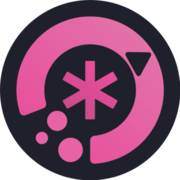
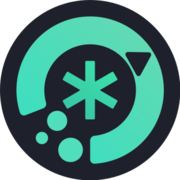
Volta o Illogical Windows para o verde

diff --git a/apps/illogicalwindows/rich/showcase.css b/apps/illogicalwindows/rich/showcase.css
@@ -1,30 +1,30 @@
 /* Vitrine por cenas. Todo movimento usa transform e opacity. */
 
 .visually-hidden { position: absolute; width: 1px; height: 1px; overflow: hidden; clip-path: inset(50%); white-space: nowrap; }
-.rich { --show-pink: #ef68aa; --show-white: #f6f1f5; }
+.rich { --show-accent: #68efc7; --show-white: #f1f6f4; }
 .rich body { background: #08080b; }
 .rich .nav a[href="#learn"], .rich .nav a[href="#source"] { display: none; }
 .rich .site-header { background: #08080b; border-bottom-color: #ffffff12; }
-.rich .hero { scroll-margin-top: 56px; overflow: clip; padding: 62px 0 64px; background: radial-gradient(ellipse at 50% 55%, #4e123736, transparent 62%); }
+.rich .hero { scroll-margin-top: 56px; overflow: clip; padding: 62px 0 64px; background: radial-gradient(ellipse at 50% 55%, #124e3c36, transparent 62%); }
 .rich .hero > .wrap:first-child { max-width: 1320px; }
 .rich .hero-icon, .rich .codename { display: none; }
-.rich .hero .eyebrow { background: transparent; border: 0; color: var(--show-pink); margin: 0 0 14px; padding: 0; font-size: .72rem; letter-spacing: .18em; text-transform: uppercase; }
+.rich .hero .eyebrow { background: transparent; border: 0; color: var(--show-accent); margin: 0 0 14px; padding: 0; font-size: .72rem; letter-spacing: .18em; text-transform: uppercase; }
 .rich .hero h1 { font-size: 1.05rem; font-weight: 600; letter-spacing: -.02em; color: #c0b8c3; margin: 0 0 24px; }
 .rich .launch-title { font-size: clamp(3.8rem, 8.7vw, 8rem); font-weight: 650; line-height: .99; letter-spacing: -.065em; margin: 0; color: var(--show-white); }
 .launch-title span { display: block; }
-.launch-title span:last-child { color: var(--show-pink); }
+.launch-title span:last-child { color: var(--show-accent); }
 .rich .hero .pitch { font-family: var(--font); font-size: 1rem; font-weight: 400; color: #afa8b3; max-width: 54ch; margin-top: 26px; line-height: 1.55; }
 .rich .hero .cta { margin-top: 24px; }
 .rich .hero .btn { font-size: .9rem; min-height: 44px; padding: 10px 22px; }
 .launch-stage { position: relative; aspect-ratio: 16 / 9; width: min(1120px, 90%); margin: 80px auto 58px; perspective: 1800px; }
-.launch-orbit { position: absolute; inset: -12% -8%; border: 1px solid #d15c9824; border-radius: 50%; transform: rotate(-14deg); pointer-events: none; }
-.launch-desktop { position: absolute; inset: 0; border: 1px solid #ffb3d34d; border-radius: 18px; overflow: hidden; box-shadow: 0 36px 90px #0009; transform: rotateX(var(--launch-tilt, 9deg)) rotateY(var(--launch-turn, -3deg)) scale(var(--launch-scale, .94)); transform-origin: center; }
+.launch-orbit { position: absolute; inset: -12% -8%; border: 1px solid #5cd1ae24; border-radius: 50%; transform: rotate(-14deg); pointer-events: none; }
+.launch-desktop { position: absolute; inset: 0; border: 1px solid #b3ffe84d; border-radius: 18px; overflow: hidden; box-shadow: 0 36px 90px #0009; transform: rotateX(var(--launch-tilt, 9deg)) rotateY(var(--launch-turn, -3deg)) scale(var(--launch-scale, .94)); transform-origin: center; }
 .launch-desktop img { width: 100%; height: 100%; display: block; object-fit: cover; }
 .launch-panel { position: absolute; height: auto; border-radius: 14px; box-shadow: 0 24px 60px #000a; pointer-events: none; }
 .launch-search { width: 37%; left: -6%; bottom: 6%; transform: translateY(var(--search-y, 28px)) rotate(-5deg); }
 .launch-side { width: 20%; right: -4%; top: -7%; transform: translateY(var(--side-y, -18px)) rotate(4deg); }
 .launch-tour { position: absolute; bottom: -64px; left: 50%; transform: translateX(-50%); display: flex; align-items: center; gap: 16px; color: #aaa1b0; font-size: .72rem; letter-spacing: .14em; text-transform: uppercase; text-decoration: none; white-space: nowrap; }
-.launch-tour span:last-child { font-size: 1.2rem; color: var(--show-pink); }
+.launch-tour span:last-child { font-size: 1.2rem; color: var(--show-accent); }
 .rich .hero .facts { margin-top: 100px; font-size: .75rem; color: #aaa1b0; }
 .rich .hero .hero-note { font-size: .74rem; max-width: 74ch; }
 .rich .notice-band { background: #0d0c10; border-block: 1px solid #ffffff0c; }
@@ -33,28 +33,28 @@
 .journey { scroll-margin-top: 56px; background: #08080b; position: relative; overflow: clip; }
 .journey-pin { max-width: 1440px; margin: auto; padding: 36px 6vw; }
 .journey-topline { display: flex; justify-content: space-between; color: #a79baa; font-size: .7rem; text-transform: uppercase; letter-spacing: .18em; }
-.journey-counter { color: var(--show-pink); font-variant-numeric: tabular-nums; }
+.journey-counter { color: var(--show-accent); font-variant-numeric: tabular-nums; }
 .journey-scenes { position: relative; }
 .journey-scene { display: grid; grid-template-columns: .9fr 1.1fr; align-items: center; gap: 5%; min-height: 680px; }
-.chapter-number { display: block; color: var(--show-pink); font: .75rem var(--font-mono); margin-bottom: 24px; }
+.chapter-number { display: block; color: var(--show-accent); font: .75rem var(--font-mono); margin-bottom: 24px; }
 .journey-copy h3 { font-size: clamp(2.7rem, 5.4vw, 5.2rem); line-height: 1.02; letter-spacing: -.055em; font-weight: 650; margin: 0; }
 .journey-copy h3 span { display: block; }
 .journey-copy h3 span:last-child { color: #a593a7; }
 .journey-copy p { font-size: 1.05rem; line-height: 1.65; color: #aca2b3; max-width: 35ch; margin: 28px 0 20px; }
-.scene-try { color: var(--show-pink); text-underline-offset: 6px; font-size: .9rem; }
+.scene-try { color: var(--show-accent); text-underline-offset: 6px; font-size: .9rem; }
 .scene-key { display: flex; align-items: center; gap: 12px; color: #817686; font-size: .75rem; margin-top: 34px; }
-.scene-key kbd { border: 1px solid #ffffff26; border-radius: 7px; padding: 8px 14px; color: #e8dcea; font: .8rem var(--font); }
+.scene-key kbd { border: 1px solid #ffffff26; border-radius: 7px; padding: 8px 14px; color: #dceae6; font: .8rem var(--font); }
 .journey-visual { position: relative; min-width: 0; display: grid; place-items: center; perspective: 1200px; }
-.scene-halo { position: absolute; width: 110%; aspect-ratio: 1; background: radial-gradient(ellipse, #9d236245, transparent 66%); pointer-events: none; }
+.scene-halo { position: absolute; width: 110%; aspect-ratio: 1; background: radial-gradient(ellipse, #239d7845, transparent 66%); pointer-events: none; }
 .journey-visual img { position: relative; width: 100%; height: auto; border-radius: 18px; box-shadow: 0 28px 80px #000a; transform: translateY(var(--scene-y, 0px)) rotateY(var(--scene-turn, -6deg)); }
 .scene-search img { width: 112%; max-width: none; }
-.scene-label { position: absolute; bottom: -64px; color: #b99fb8; font-size: .8rem; letter-spacing: .08em; }
+.scene-label { position: absolute; bottom: -64px; color: #9fb9b1; font-size: .8rem; letter-spacing: .08em; }
 .scene-controls img { width: auto; max-height: 64svh; max-width: 80%; transform: translateY(var(--scene-y, 0px)) rotate(5deg); z-index: 1; }
-.control-word { position: absolute; right: -8%; color: #281323; font-size: 25vw; font-weight: 700; letter-spacing: -.09em; line-height: 1; }
+.control-word { position: absolute; right: -8%; color: #132822; font-size: 25vw; font-weight: 700; letter-spacing: -.09em; line-height: 1; }
 .scene-widgets img { width: 122%; max-width: none; transform: translateY(var(--scene-y, 0px)) rotateY(-8deg); }
 .journey-progress { display: none; gap: 8px; }
 .journey-progress i { flex: 1; height: 2px; background: #ffffff14; }
-.journey-progress i.is-on { background: var(--show-pink); }
+.journey-progress i.is-on { background: var(--show-accent); }
 .showcase-motion .journey { height: 350svh; }
 .showcase-motion .journey-pin { position: sticky; top: 56px; height: calc(100svh - 56px); display: grid; grid-template-rows: auto 1fr auto; padding-bottom: 32px; }
 .showcase-motion .journey-scenes { min-height: 0; }
@@ -62,12 +62,12 @@
 .showcase-motion .journey-scene.is-current { pointer-events: auto; }
 .showcase-motion .journey-scene:first-child { --scene-alpha: 1; }
 .showcase-motion .journey-progress { display: flex; }
-.rich .hands-on { padding: 100px 0 112px; background: radial-gradient(ellipse at 50% 48%, #40162b52, transparent 65%), #100c12; border-block: 1px solid #ffffff0b; }
-.show-kicker { color: var(--show-pink); text-transform: uppercase; letter-spacing: .18em; font-size: .72rem; margin-bottom: 24px; }
+.rich .hands-on { padding: 100px 0 112px; background: radial-gradient(ellipse at 50% 48%, #16403352, transparent 65%), #0c1210; border-block: 1px solid #ffffff0b; }
+.show-kicker { color: var(--show-accent); text-transform: uppercase; letter-spacing: .18em; font-size: .72rem; margin-bottom: 24px; }
 .hands-on-head { text-align: center; }
 .hands-on-head h2 { font-size: clamp(2.8rem, 6vw, 5.8rem); letter-spacing: -.055em; line-height: 1.04; margin: 0; }
 .hands-on-head h2 span { display: block; }
-.hands-on-head h2 span:last-child { color: var(--show-pink); }
+.hands-on-head h2 span:last-child { color: var(--show-accent); }
 .hands-on-head > p:last-child { max-width: 52ch; color: #aaa0af; margin: 28px auto 0; }
 .rich .hands-on .demo-area { max-width: 1200px; margin-top: 52px; }
 .rich .section { padding-block: 100px; }
@@ -77,8 +77,8 @@
 .rich .features h3 { font-size: 1.2rem; }
 .rich .features p { font-size: .9rem; line-height: 1.65; }
 .rich #features { background: #08080b; }
-.rich #learn { background: #100e13; }
-.rich #install { background: radial-gradient(ellipse at top, #8d205337, transparent 65%), #0e0a10; }
+.rich #learn { background: #0e1312; }
+.rich #install { background: radial-gradient(ellipse at top, #208d6c37, transparent 65%), #0a100e; }
 .rich #install .section-head h2 { font-size: clamp(2.8rem, 6vw, 5rem); }
 .rich .launch-title, .rich .launch-stage { animation: none; }
 .rich-ready .launch-title { animation: show-enter 900ms cubic-bezier(.2,.7,.2,1) both; }

diff --git a/apps/illogicalwindows/index.html b/apps/illogicalwindows/index.html
@@ -28,13 +28,13 @@
 		<meta name="twitter:description" content="end-4's illogical-impulse desktop, running natively on Windows 11 and Windows 10. Unofficial, free and open source." />
 		<meta name="twitter:image" content="https://daeese.me/filearchive/projects/ii-windows/banner.webp" />
 
-		<link rel="icon" type="image/png" sizes="32x32" href="assets/icon-32.png" />
-		<link rel="icon" type="image/png" sizes="180x180" href="assets/icon-180.png" />
-		<link rel="apple-touch-icon" href="assets/icon-180.png" />
+		<link rel="icon" type="image/png" sizes="32x32" href="assets/icon-32.png?v=20261031" />
+		<link rel="icon" type="image/png" sizes="180x180" href="assets/icon-180.png?v=20261031" />
+		<link rel="apple-touch-icon" href="assets/icon-180.png?v=20261031" />
 
 		<link rel="stylesheet" href="../../filearchive/i18n/i18n.css" />
-		<link rel="stylesheet" href="rich/rich.css?v=20261014-4" />
-        <link rel="stylesheet" href="rich/showcase.css?v=20261014-4" />
+		<link rel="stylesheet" href="rich/rich.css?v=20261031-1" />
+        <link rel="stylesheet" href="rich/showcase.css?v=20261031-1" />
 		<script src="../../filearchive/perf/lite.js"></script>
 
 		<script>
@@ -90,15 +90,15 @@
 				--bg: #0e1013;
 				--bg-alt: #13161a;
 				--surface: #171a1f;
-				--surface-tint: #25161e;
+				--surface-tint: #142420;
 				--line: rgba(255, 255, 255, 0.08);
 				--line-strong: rgba(255, 255, 255, 0.16);
 				--text: #eceff3;
 				--muted: #9ba4af;
-				--accent: #e160a1;
-				--accent-ink: #e970ad;
-				--accent-soft: rgba(225, 96, 161, 0.12);
-				--on-accent: #280818;
+				--accent: #4fd8b5;
+				--accent-ink: #5fe0bf;
+				--accent-soft: rgba(79, 216, 181, 0.12);
+				--on-accent: #04261d;
 				--header-bg: rgba(14, 16, 19, 0.94);
 				--shadow: 0 1px 2px rgba(0, 0, 0, 0.3), 0 10px 30px rgba(0, 0, 0, 0.3);
 				--shadow-lg: 0 2px 6px rgba(0, 0, 0, 0.35), 0 30px 70px rgba(0, 0, 0, 0.5);
@@ -1308,7 +1308,7 @@
 		<header class="site-header">
 			<div class="wrap header-inner">
 				<a class="brand" href="#top" aria-label="Illogical Windows" data-i18n-attr="aria-label:iw.brand">
-					<img src="assets/icon.webp" width="28" height="28" alt="" />
+					<img src="assets/icon.webp?v=20261031" width="28" height="28" alt="" />
 					<span data-i18n="iw.brand">Illogical Windows</span>
 				</a>
 				<nav class="nav" aria-label="Sections" data-i18n-attr="aria-label:iw.nav.label">
@@ -1331,7 +1331,7 @@
 			<!-- ================= Hero ================= -->
 			<section class="hero" id="top">
 				<div class="wrap">
-					<img class="hero-icon" src="assets/icon.webp" width="84" height="84" alt="" />
+					<img class="hero-icon" src="assets/icon.webp?v=20261031" width="84" height="84" alt="" />
 					<p class="eyebrow" data-i18n="iw.hero.eyebrow">Unofficial port · Unstable preview</p>
 					<h1 data-i18n="iw.hero.title">Illogical Windows</h1>
                     <h2 class="launch-title rich-only"><span data-i18n="iw.show.hero.a">Your desktop.</span><span data-i18n="iw.show.hero.b">Entirely your own.</span></h2>
@@ -1441,7 +1441,7 @@
 							<div class="demo-icons"><i></i><i></i><i></i></div>
 						</div>
 						<div class="demo-bar">
-							<button type="button" class="demo-bar-btn demo-bar-search" data-act="win" aria-label="Search" data-i18n-attr="aria-label:iw.demo.searchBtn"><img src="assets/icon.webp" width="16" height="16" alt="" /></button>
+							<button type="button" class="demo-bar-btn demo-bar-search" data-act="win" aria-label="Search" data-i18n-attr="aria-label:iw.demo.searchBtn"><img src="assets/icon.webp?v=20261031" width="16" height="16" alt="" /></button>
 							<div class="demo-ws" role="group" aria-label="Workspaces" data-i18n-attr="aria-label:iw.demo.wsLabel">
 								<button type="button" data-ws="0" class="on" aria-pressed="true">1</button><button type="button" data-ws="1" aria-pressed="false">2</button><button type="button" data-ws="2" aria-pressed="false">3</button>
 							</div>
@@ -1517,9 +1517,9 @@
 					<div class="demo-walls">
 						<span class="demo-walls-label" id="demo-walls-label" data-i18n="iw.demo.walls">Wallpaper</span>
 						<div class="demo-swatches" role="radiogroup" aria-labelledby="demo-walls-label">
-						<button type="button" role="radio" aria-checked="true" data-wall="rose" aria-label="Rose" data-i18n-attr="aria-label:iw.demo.wall.rose" title="Rose"><canvas aria-hidden="true"></canvas></button>
+						<button type="button" role="radio" aria-checked="false" data-wall="rose" aria-label="Rose" data-i18n-attr="aria-label:iw.demo.wall.rose" title="Rose"><canvas aria-hidden="true"></canvas></button>
 						<button type="button" role="radio" aria-checked="false" data-wall="lagoon" aria-label="Lagoon" data-i18n-attr="aria-label:iw.demo.wall.lagoon" title="Lagoon"><canvas aria-hidden="true"></canvas></button>
-						<button type="button" role="radio" aria-checked="false" data-wall="moss" aria-label="Moss" data-i18n-attr="aria-label:iw.demo.wall.moss" title="Moss"><canvas aria-hidden="true"></canvas></button>
+						<button type="button" role="radio" aria-checked="true" data-wall="moss" aria-label="Moss" data-i18n-attr="aria-label:iw.demo.wall.moss" title="Moss"><canvas aria-hidden="true"></canvas></button>
 						<button type="button" role="radio" aria-checked="false" data-wall="ember" aria-label="Ember" data-i18n-attr="aria-label:iw.demo.wall.ember" title="Ember"><canvas aria-hidden="true"></canvas></button>
 						<button type="button" role="radio" aria-checked="false" data-wall="dusk" aria-label="Dusk" data-i18n-attr="aria-label:iw.demo.wall.dusk" title="Dusk"><canvas aria-hidden="true"></canvas></button>
 						</div>
@@ -2913,7 +2913,7 @@
 				if (rich) {
 					root.classList.add("rich");
 					try {
-						mod = mod || (await import("./rich/rich.js?v=20261014-4"));
+						mod = mod || (await import("./rich/rich.js?v=20261031-1"));
                         if (current !== revision || (lite && lite.on)) return;
 						mod.start();
 						// Mede o fps com os efeitos rodando (lite.js, data-lite-watch).

diff --git a/apps/illogicalwindows/rich/rich.css b/apps/illogicalwindows/rich/rich.css
@@ -26,22 +26,22 @@
 @property --accent {
 	syntax: "<color>";
 	inherits: true;
-	initial-value: #e4509a;
+	initial-value: #3ddbb0;
 }
 @property --accent-ink {
 	syntax: "<color>";
 	inherits: true;
-	initial-value: #82174d;
+	initial-value: #0b7d64;
 }
 @property --accent-soft {
 	syntax: "<color>";
 	inherits: true;
-	initial-value: rgba(228, 80, 154, 0.14);
+	initial-value: rgba(61, 219, 176, 0.14);
 }
 @property --on-accent {
 	syntax: "<color>";
 	inherits: true;
-	initial-value: #2c0719;
+	initial-value: #032a20;
 }
 
 .rich-ready {
@@ -133,19 +133,19 @@
 }
 
 .demo {
-	--d-primary: #ffb0cf;
-	--d-on-primary: #63003b;
-	--d-primary-container: #8c0056;
-	--d-on-primary-container: #ffd9e5;
-	--d-secondary-container: #5a3f49;
-	--d-on-secondary-container: #fed9e5;
-	--d-surface: #171214;
+	--d-primary: #b0ffe7;
+	--d-on-primary: #006345;
+	--d-primary-container: #008c62;
+	--d-on-primary-container: #d9fff4;
+	--d-secondary-container: #3f5a52;
+	--d-on-secondary-container: #d9fef3;
+	--d-surface: #121716;
 	--d-surface-low: #201a1c;
 	--d-surface-mid: #241e20;
 	--d-surface-high: #2e282a;
 	--d-surface-top: #393335;
-	--d-on-surface: #ebe0e2;
-	--d-on-surface-variant: #d5c2c7;
+	--d-on-surface: #e0ebe8;
+	--d-on-surface-variant: #c2d5cf;
 	--d-outline: #9d8c91;
 	--d-outline-variant: #504348;
 	--bar-h: 2.3em;
@@ -155,7 +155,7 @@
 	overflow: hidden;
 	isolation: isolate;
 	border-radius: 18px;
-	background: #120d10;
+	background: #0d1210;
 	box-shadow: var(--shadow-lg);
 	color: var(--d-on-surface);
 	font-size: clamp(10px, 1.32cqi, 14.5px);
@@ -204,7 +204,7 @@
 	position: absolute;
 	inset: 0;
 	z-index: 0;
-	background: #1a0b14 center / cover no-repeat;
+	background: #0b1a16 center / cover no-repeat;
 	transition: opacity 0.5s ease;
 }
 

diff --git a/apps/illogicalwindows/rich/rich.js b/apps/illogicalwindows/rich/rich.js
@@ -24,7 +24,7 @@ import { PRESETS, wallpaperUrl, drawThumb, presetTones, demoScheme, pageScheme, 
 const html = document.documentElement;
 const reduce = matchMedia("(prefers-reduced-motion: reduce)");
 const darkQuery = matchMedia("(prefers-color-scheme: dark)");
-const WALL_KEY = "iw:wall";
+const WALL_KEY = "iw:wall:green";
 
 let cleanups = [];
 let desktop = null;
@@ -57,9 +57,9 @@ function setupPalette(area) {
 	const walls = document.querySelectorAll(".demo-wall");
 	const swatches = area.querySelector(".demo-swatches");
 	const fileInput = area.querySelector(".demo-upload input");
-	let tones = presetTones("rose");
+	let tones = presetTones("moss");
 	let demoDark = true;
-	let current = "rose";
+	let current = "moss";
 	let userUrl = null;
 
 	function applyTones() {
@@ -68,7 +68,7 @@ function setupPalette(area) {
 			stage.style.setProperty(k, d[k]);
 		}
 		stage.classList.toggle("is-light", !demoDark);
-		if (current === "rose" && !userUrl) {
+		if (current === "moss" && !userUrl) {
 			PAGE_KEYS.forEach((k) => html.style.removeProperty(k));
 			return;
 		}
@@ -160,7 +160,7 @@ function setupPalette(area) {
 	on(darkQuery, "change", applyTones);
 
 	const saved = readWall();
-	choose(PRESETS.some((p) => p.id === saved) ? saved : "rose", false);
+	choose(PRESETS.some((p) => p.id === saved) ? saved : "moss", false);
 
 	return {
 		setDark(dark) {

diff --git a/index.html b/index.html
@@ -2854,10 +2854,10 @@
             tagline: "end-4's illogical-impulse Quickshell desktop, ported from Hyprland to Windows 11 and 10.",
             status: "26.1.1.0 unstable · Stable: 1.0.8",
             tags: ["C++", "C++/WinRT", "Qt 6 / QML", "Quickshell"],
-            image: "./filearchive/projects/ii-windows/thumb.webp",
+            image: "./filearchive/projects/ii-windows/thumb.webp?v=20261031",
             cover: { src: "./apps/illogicalwindows/assets/showcase/desktop.webp", w: 1600, h: 900 },
             thumbWide: true,
-            logo: { src: "./filearchive/projects/ii-windows/logo.webp", w: 1000, h: 310, alt: "illogical-impulse for Windows" },
+            logo: { src: "./filearchive/projects/ii-windows/logo.webp?v=20261031", w: 1000, h: 310, alt: "illogical-impulse for Windows" },
             details: [
               "end-4’s illogical-impulse desktop, running natively on Windows 10 and 11. Your apps and files stay where they are; ii brings a different bar, sidebars and widgets around them.",
               "Search with the Windows key, control music and notifications from the sidebar, and arrange widgets and windows your way. Colors follow your wallpaper, with two looks to choose from.",
